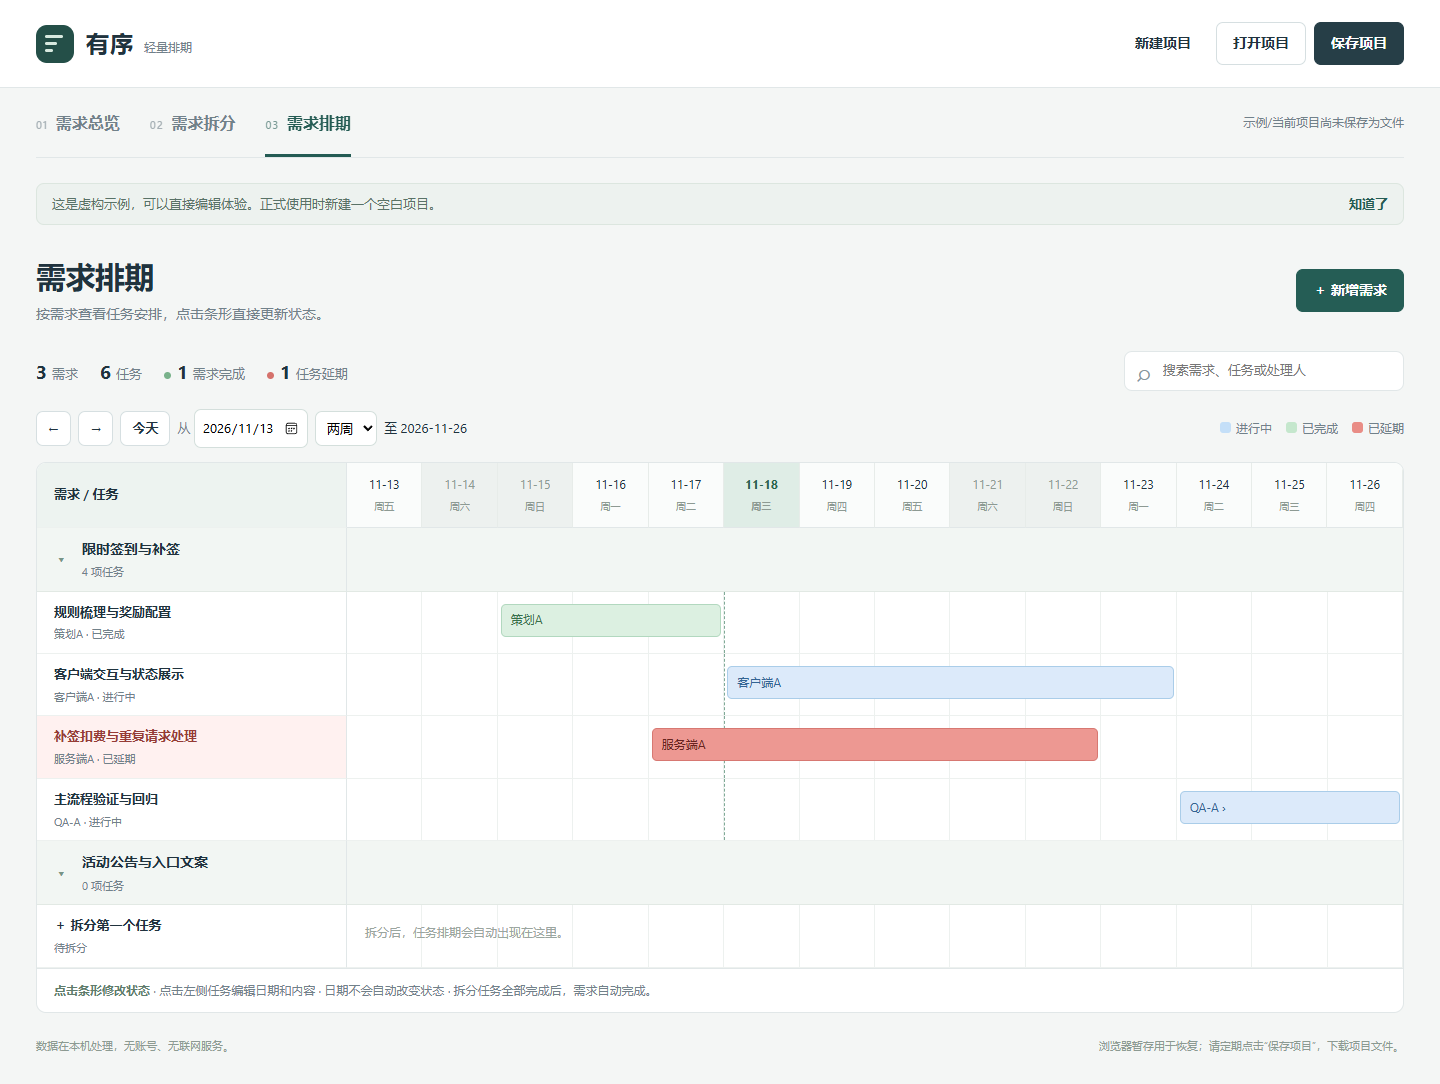
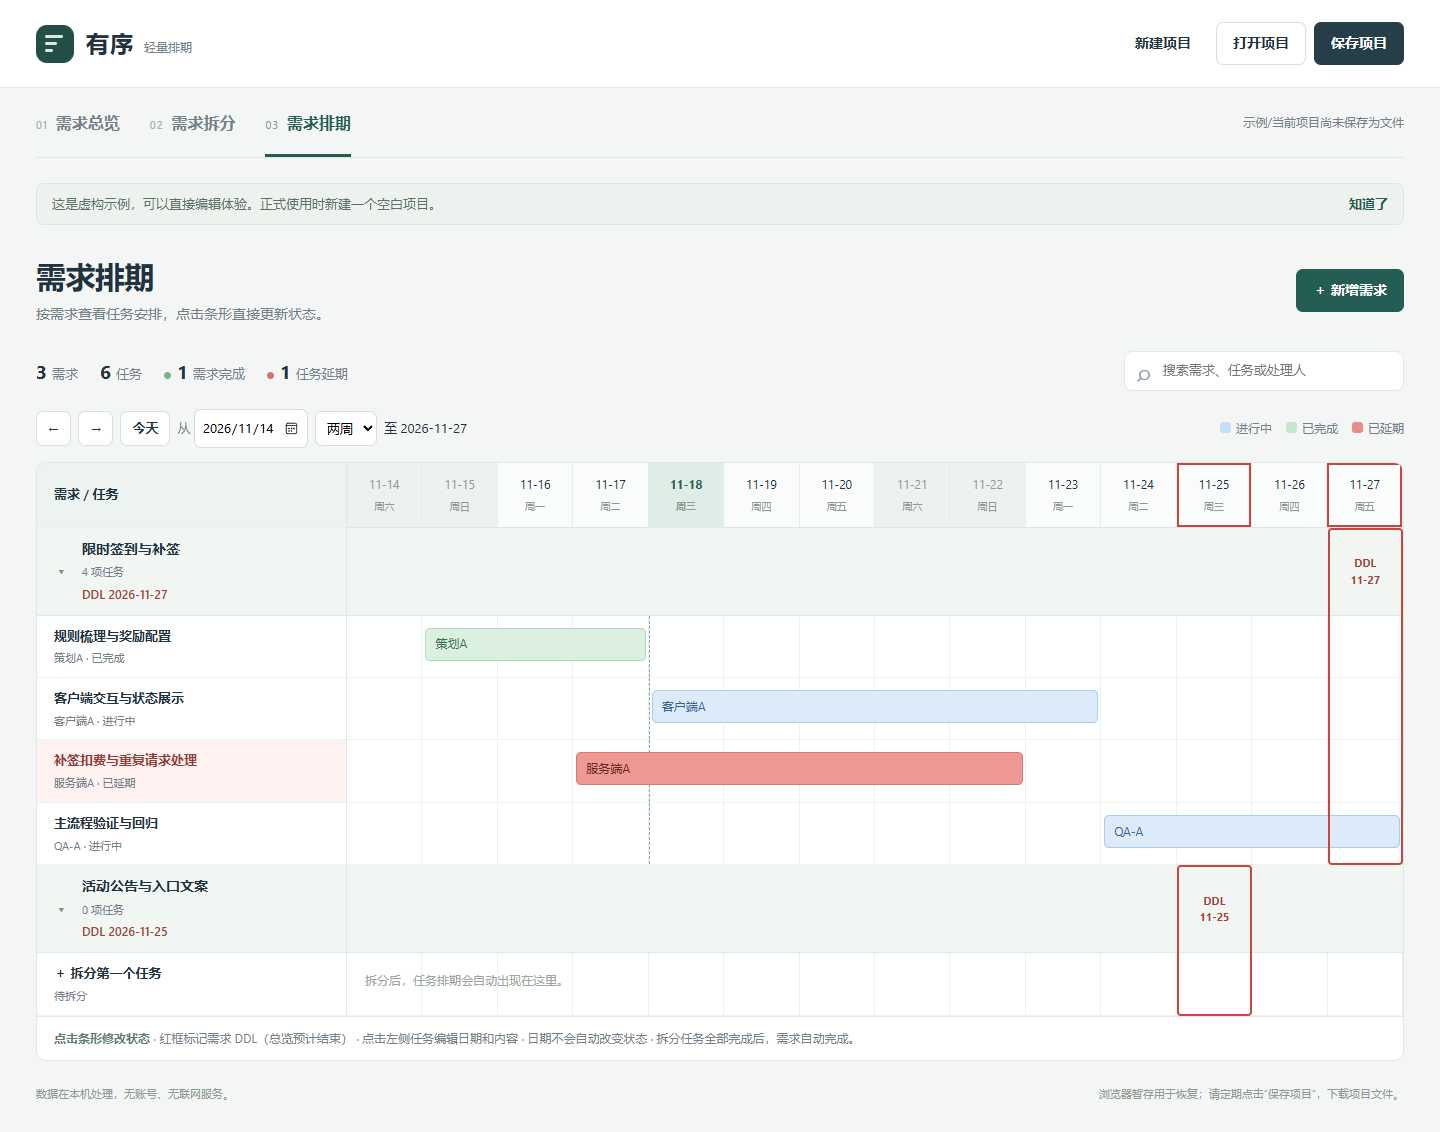
新增需求截止日标记及本地数据保存提醒

diff --git a/app.js b/app.js
@@ -11,6 +11,7 @@
  const notify=text=>{clearTimeout(toastTimer);$('toast').textContent=text;$('toast').classList.add('show');toastTimer=setTimeout(()=>$('toast').classList.remove('show'),3800);};
  const req=id=>project.requirements.find(r=>r.id===id), task=id=>project.tasks.find(t=>t.id===id);
  const ts=id=>M.tasksFor(project,id);
+ const deadline=r=>`<span class="deadline-date ${r.end?'':'unset'}">DDL ${r.end?E(r.end):'未设置'}</span>`;
  const pill=s=>`<span class="pill ${s}">${M.status[s]}</span>`;
  const date=v=>v?E(v):'<span style="color:#97a39d">待排期</span>';
  const owner=name=>name?`<span class="owner"><span class="avatar" aria-hidden="true">${E([...name][0])}</span>${E(name)}</span>`:'<span style="color:#97a39d">待分配</span>';
@@ -41,24 +42,25 @@
  function breakdown(rows){
    return `<div class="gantt-toolbar"><span class="form-help">新增需求会自动出现在这里。点击状态可快速修改；延期任务整行标红。</span><select class="compact-filter" id="task-filter" aria-label="筛选任务状态"><option value="">全部状态</option>${Object.entries(M.status).map(([k,v])=>`<option value="${k}" ${ui.filter===k?'selected':''}>${v}</option>`).join('')}</select></div>`+rows.map(r=>{
     const all=ts(r.id), list=all.filter(t=>!ui.filter||t.status===ui.filter);
-    return `<section class="group" data-requirement-group="${E(r.id)}"><div class="group-head ${M.completed(project,r.id)?'complete':''}"><div class="group-title"><h2>${E(r.title)}</h2><span class="count">${all.length} 项任务</span>${M.completed(project,r.id)?pill('done'):''}</div><button class="btn small" data-action="new-task" data-id="${E(r.id)}">＋ 拆分任务</button></div>${list.length?`<div class="table-wrap" style="border:0;border-radius:0"><table class="data-table"><colgroup><col style="width:23%"><col style="width:7%"><col style="width:11%"><col style="width:11%"><col style="width:11%"><col style="width:9%"><col style="width:22%"><col style="width:6%"></colgroup><thead><tr><th>任务拆分</th><th>优先级</th><th>处理人</th><th>预计开始</th><th>预计结束</th><th>状态</th><th>备注</th><th>操作</th></tr></thead><tbody>${list.map(t=>`<tr class="${t.status==='delayed'?'delayed':''}" data-task-row="${E(t.id)}"><td><button class="title-btn" data-action="edit-task" data-id="${E(t.id)}">${E(t.title)}</button></td><td><span class="priority ${t.priority==='高'?'high':''}">${E(t.priority)}</span></td><td>${owner(t.owner)}</td><td class="date-text">${date(t.start)}</td><td class="date-text">${date(t.end)}</td><td><button class="pill ${t.status}" data-action="status" data-id="${E(t.id)}" aria-label="修改 ${E(t.title)} 的状态">${M.status[t.status]}</button></td><td><span class="note" title="${E(t.note)}">${E(t.note)||'—'}</span></td><td><div class="row-actions"><button data-action="edit-task" data-id="${E(t.id)}">编辑</button></div></td></tr>`).join('')}</tbody></table></div>`:`<div class="empty-group">${all.length?'当前状态筛选下没有任务。':'还没有拆分任务。'}${!all.length?'<span>先把它拆成具体的工作，再安排处理人和日期。</span>':''}</div>`}</section>`;
+    return `<section class="group" data-requirement-group="${E(r.id)}"><div class="group-head ${M.completed(project,r.id)?'complete':''}"><div class="group-title"><h2>${E(r.title)}</h2><span class="count">${all.length} 项任务</span>${deadline(r)}${M.completed(project,r.id)?pill('done'):''}</div><button class="btn small" data-action="new-task" data-id="${E(r.id)}">＋ 拆分任务</button></div>${list.length?`<div class="table-wrap" style="border:0;border-radius:0"><table class="data-table"><colgroup><col style="width:23%"><col style="width:7%"><col style="width:11%"><col style="width:11%"><col style="width:11%"><col style="width:9%"><col style="width:22%"><col style="width:6%"></colgroup><thead><tr><th>任务拆分</th><th>优先级</th><th>处理人</th><th>预计开始</th><th>预计结束</th><th>状态</th><th>备注</th><th>操作</th></tr></thead><tbody>${list.map(t=>`<tr class="${t.status==='delayed'?'delayed':''}" data-task-row="${E(t.id)}"><td><button class="title-btn" data-action="edit-task" data-id="${E(t.id)}">${E(t.title)}</button></td><td><span class="priority ${t.priority==='高'?'high':''}">${E(t.priority)}</span></td><td>${owner(t.owner)}</td><td class="date-text">${date(t.start)}</td><td class="date-text">${date(t.end)}</td><td><button class="pill ${t.status}" data-action="status" data-id="${E(t.id)}" aria-label="修改 ${E(t.title)} 的状态">${M.status[t.status]}</button></td><td><span class="note" title="${E(t.note)}">${E(t.note)||'—'}</span></td><td><div class="row-actions"><button data-action="edit-task" data-id="${E(t.id)}">编辑</button></div></td></tr>`).join('')}</tbody></table></div>`:`<div class="empty-group">${all.length?'当前状态筛选下没有任务。':'还没有拆分任务。'}${!all.length?'<span>先把它拆成具体的工作，再安排处理人和日期。</span>':''}</div>`}</section>`;
    }).join('');
  }
  function schedule(rows){
    const days=Array.from({length:ui.days},(_,i)=>M.addDays(ui.start,i)), end=days.at(-1),todayIndex=M.diffDays(M.today(),ui.start);
    const line=todayIndex>=0&&todayIndex<ui.days?`<span class="today-line" style="left:calc(${todayIndex} * var(--day))"></span>`:'';
-   const headings=days.map(d=>{const w=new Date(d+'T00:00:00Z').getUTCDay();return `<div class="day ${[0,6].includes(w)?'weekend':''} ${d===M.today()?'today':''}"><span>${d.slice(5)}</span><small>周${'日一二三四五六'[w]}</small></div>`;}).join('');
+   const headings=days.map(d=>{const w=new Date(d+'T00:00:00Z').getUTCDay(),due=rows.filter(r=>r.end===d);return `<div data-date="${d}" title="${E(due.map(r=>r.title+' · DDL '+d).join('；'))}" class="day ${due.length?'has-deadline':''} ${[0,6].includes(w)?'weekend':''} ${d===M.today()?'today':''}"><span>${d.slice(5)}</span><small>周${'日一二三四五六'[w]}</small></div>`;}).join('');
    return `<div class="gantt-toolbar"><div class="range-controls"><button class="btn small" data-action="prev-range" aria-label="上一时间段">←</button><button class="btn small" data-action="next-range" aria-label="下一时间段">→</button><button class="btn small" data-action="today-range">今天</button><label>从 <input id="range-start" type="date" value="${ui.start}" min="2000-01-01" max="2100-10-31" aria-label="排期开始日期"></label><select id="range-days" aria-label="排期时间跨度">${[14,28,56].map(n=>`<option value="${n}" ${ui.days===n?'selected':''}>${n===14?'两周':n===28?'四周':'八周'}</option>`).join('')}</select><span class="date-text">至 ${end}</span></div><div class="legend">${Object.entries(M.status).map(([k,v])=>`<span><i class="${k}"></i>${v}</span>`).join('')}</div></div><div class="gantt-shell"><div class="gantt-scroll"><div class="gantt" style="--days:${ui.days}"><div class="gantt-row gantt-header"><div class="gantt-label">需求 / 任务</div><div class="gantt-days">${headings}</div></div>${rows.map(r=>{
-    const list=ts(r.id),folded=ui.collapsed.has(r.id);
-    const group=`<div class="gantt-row gantt-group"><div class="gantt-label"><button class="fold" data-action="fold" data-id="${E(r.id)}" aria-label="${folded?'展开':'收起'} ${E(r.title)}" aria-expanded="${!folded}">${folded?'▸':'▾'}</button><div><strong title="${E(r.title)}">${E(r.title)}</strong><small>${list.length} 项任务${M.completed(project,r.id)?' · 已完成':''}</small></div></div><div class="group-track"></div></div>`;
-    if(folded)return group;
-    if(!list.length)return group+`<div class="gantt-row"><div class="gantt-label"><button data-action="new-task" data-id="${E(r.id)}"><strong>＋ 拆分第一个任务</strong><small>待拆分</small></button></div><div class="track"><span class="track-note">拆分后，任务排期会自动出现在这里。</span></div></div>`;
+    const list=ts(r.id),folded=ui.collapsed.has(r.id),dueIndex=r.end?M.diffDays(r.end,ui.start):-1,inRange=dueIndex>=0&&dueIndex<ui.days;
+    const marker=inRange?`<span class="deadline-column" aria-hidden="true" style="left:calc(var(--label) + ${dueIndex} * var(--day))"></span>`:'';
+    const group=`<div class="gantt-requirement" data-gantt-requirement="${E(r.id)}">${marker}<div class="gantt-row gantt-group"><div class="gantt-label"><button class="fold" data-action="fold" data-id="${E(r.id)}" aria-label="${folded?'展开':'收起'} ${E(r.title)}" aria-expanded="${!folded}">${folded?'▸':'▾'}</button><div><strong title="${E(r.title)}">${E(r.title)}</strong><small>${list.length} 项任务${M.completed(project,r.id)?' · 已完成':''}</small>${deadline(r)}${r.end&&!inRange?'<small>DDL 在当前日期范围外</small>':''}</div></div><div class="group-track">${inRange?`<span class="deadline-flag" style="left:calc(${dueIndex} * var(--day))" title="${E(r.title)} · DDL ${r.end}">DDL<br>${r.end.slice(5)}</span>`:''}</div></div>`;
+    if(folded)return group+'</div>';
+    if(!list.length)return group+`<div class="gantt-row"><div class="gantt-label"><button data-action="new-task" data-id="${E(r.id)}"><strong>＋ 拆分第一个任务</strong><small>待拆分</small></button></div><div class="track"><span class="track-note">拆分后，任务排期会自动出现在这里。</span></div></div></div>`;
     return group+list.map(t=>{
       const a=t.start?Math.max(0,M.diffDays(t.start,ui.start)):0,b=t.end?Math.min(ui.days-1,M.diffDays(t.end,ui.start)):-1,visible=t.start&&t.end>=ui.start&&t.start<=end;
       const note=!t.start?'日期待排期，点击左侧任务补充。':'任务在当前日期范围外。';
       return `<div class="gantt-row ${t.status==='delayed'?'is-delayed':''}" data-gantt-task="${E(t.id)}"><div class="gantt-label"><button data-action="edit-task" data-id="${E(t.id)}"><strong title="${E(t.title)}">${E(t.title)}</strong><small>${E(t.owner)||'待分配'} · ${M.status[t.status]}</small></button></div><div class="track">${line}${visible?`<button class="gantt-bar ${t.status}" data-action="status" data-id="${E(t.id)}" style="left:calc(${a} * var(--day) + 3px);width:calc(${b-a+1} * var(--day) - 6px)" title="${E(t.title)} · ${E(t.owner)||'待分配'} · ${t.start} 至 ${t.end} · ${M.status[t.status]}" aria-label="修改 ${E(t.title)} 的状态">${t.start<ui.start?'‹ ':''}${E(t.owner)||M.status[t.status]}${t.end>end?' ›':''}</button>`:`<span class="track-note">${note}</span>`}</div></div>`;
-    }).join('');
-   }).join('')}</div></div><div class="gantt-hint"><strong>点击条形修改状态</strong> · 点击左侧任务编辑日期和内容 · 日期不会自动改变状态 · 拆分任务全部完成后，需求自动完成。</div></div>`;
+    }).join('')+'</div>';
+   }).join('')}</div></div><div class="gantt-hint"><strong>点击条形修改状态</strong> · 红框标记需求 DDL（总览预计结束） · 点击左侧任务编辑日期和内容 · 日期不会自动改变状态 · 拆分任务全部完成后，需求自动完成。</div></div>`;
  }
  function render(){
    const previous=document.querySelector('.gantt-scroll'),scroll=previous?{x:previous.scrollLeft,y:previous.scrollTop}:null;

diff --git a/style.css b/style.css
@@ -11,3 +11,6 @@
 body:has(dialog[open]){overflow:hidden}
 
 .content-preview{display:block;width:100%;border:0;background:transparent;padding:0;color:#426b62;text-align:left;font-size:13px;line-height:1.65;overflow-wrap:anywhere}.content-preview:hover{text-decoration:underline;color:#244f48}
+
+/* 需求截止日沿用总览预计结束；红框只覆盖该需求对应日期列。 */
+.deadline-date{display:inline-block;color:#a33e39;font-size:12px;font-weight:600;white-space:nowrap}.deadline-date.unset{color:var(--muted);font-weight:400}.group-title{flex-wrap:wrap}.day.has-deadline{box-shadow:inset 0 0 0 2px #c74640}.gantt-requirement{position:relative}.deadline-column{position:absolute;top:0;bottom:0;width:var(--day);border:2px solid #c74640;border-radius:4px;z-index:2;pointer-events:none}.group-track{position:relative}.deadline-flag{position:absolute;top:50%;transform:translateY(-50%);width:var(--day);text-align:center;color:#a33e39;font-size:11px;font-weight:700;line-height:1.5;pointer-events:none}.gantt-label .deadline-date{margin-top:3px}

diff --git a/README.md b/README.md
@@ -4,6 +4,8 @@
 
 **无需安装环境、无需账号、无需启动服务。** 使用原生 HTML、CSS 和 JavaScript，没有第三方运行依赖。
 
+> **保存提醒：本工具离线运行，不联网保存或同步数据，数据都在你自己的本地。新建项目前，请先点击“保存项目”，确认 JSON 文件已下载并妥善保留。工具没有数据恢复功能；未保存的数据被覆盖、删除或清理后，无法找回。浏览器暂存不等于备份。**
+
 ![需求排期界面](docs/schedule.png)
 
 ## 开始使用
@@ -27,6 +29,7 @@
 - 全部拆分任务完成后，需求在总览中变浅绿并沉底，在拆分和排期中隐藏。
 - 总览的“查看任务”可以回看、编辑已完成任务；重新打开任务后，需求恢复显示。
 - 没有拆分任务的需求不算完成；未填日期的任务仍保留。
+- 需求 DDL 使用总览的“预计结束”日期：拆分页显示日期，排期页用红框标记该需求截止日所在的日期列；日期不在当前范围内时会显示文字提醒。
 
 ## 保存和交接
 

diff --git a/使用说明.md b/使用说明.md
@@ -14,6 +14,8 @@
 
 ## 数据与保存
 
+**本工具离线运行，不联网保存或同步，数据都在你自己的本地。新建项目前先点击“保存项目”，确认 JSON 已下载并妥善保留。工具没有数据恢复功能，未保存的数据被覆盖、删除或清理后无法找回；浏览器暂存不等于备份。**
+
 1. 初次打开显示虚构示例，可直接编辑体验。点击“新建项目”开始正式记录。
 2. 编辑内容后会尽力自动暂存到当前浏览器；**浏览器暂存仅用于恢复，不是正式文件备份**。清理浏览器、隐私模式、换浏览器、移动文件夹或浏览器设置变化，都可能影响暂存。
 3. 点击“保存项目”，下载一个 `.json` 项目文件。请确认浏览器下载完成，文件已放到你要的位置。多次保存可能产生多个下载副本，以最新文件为准。
